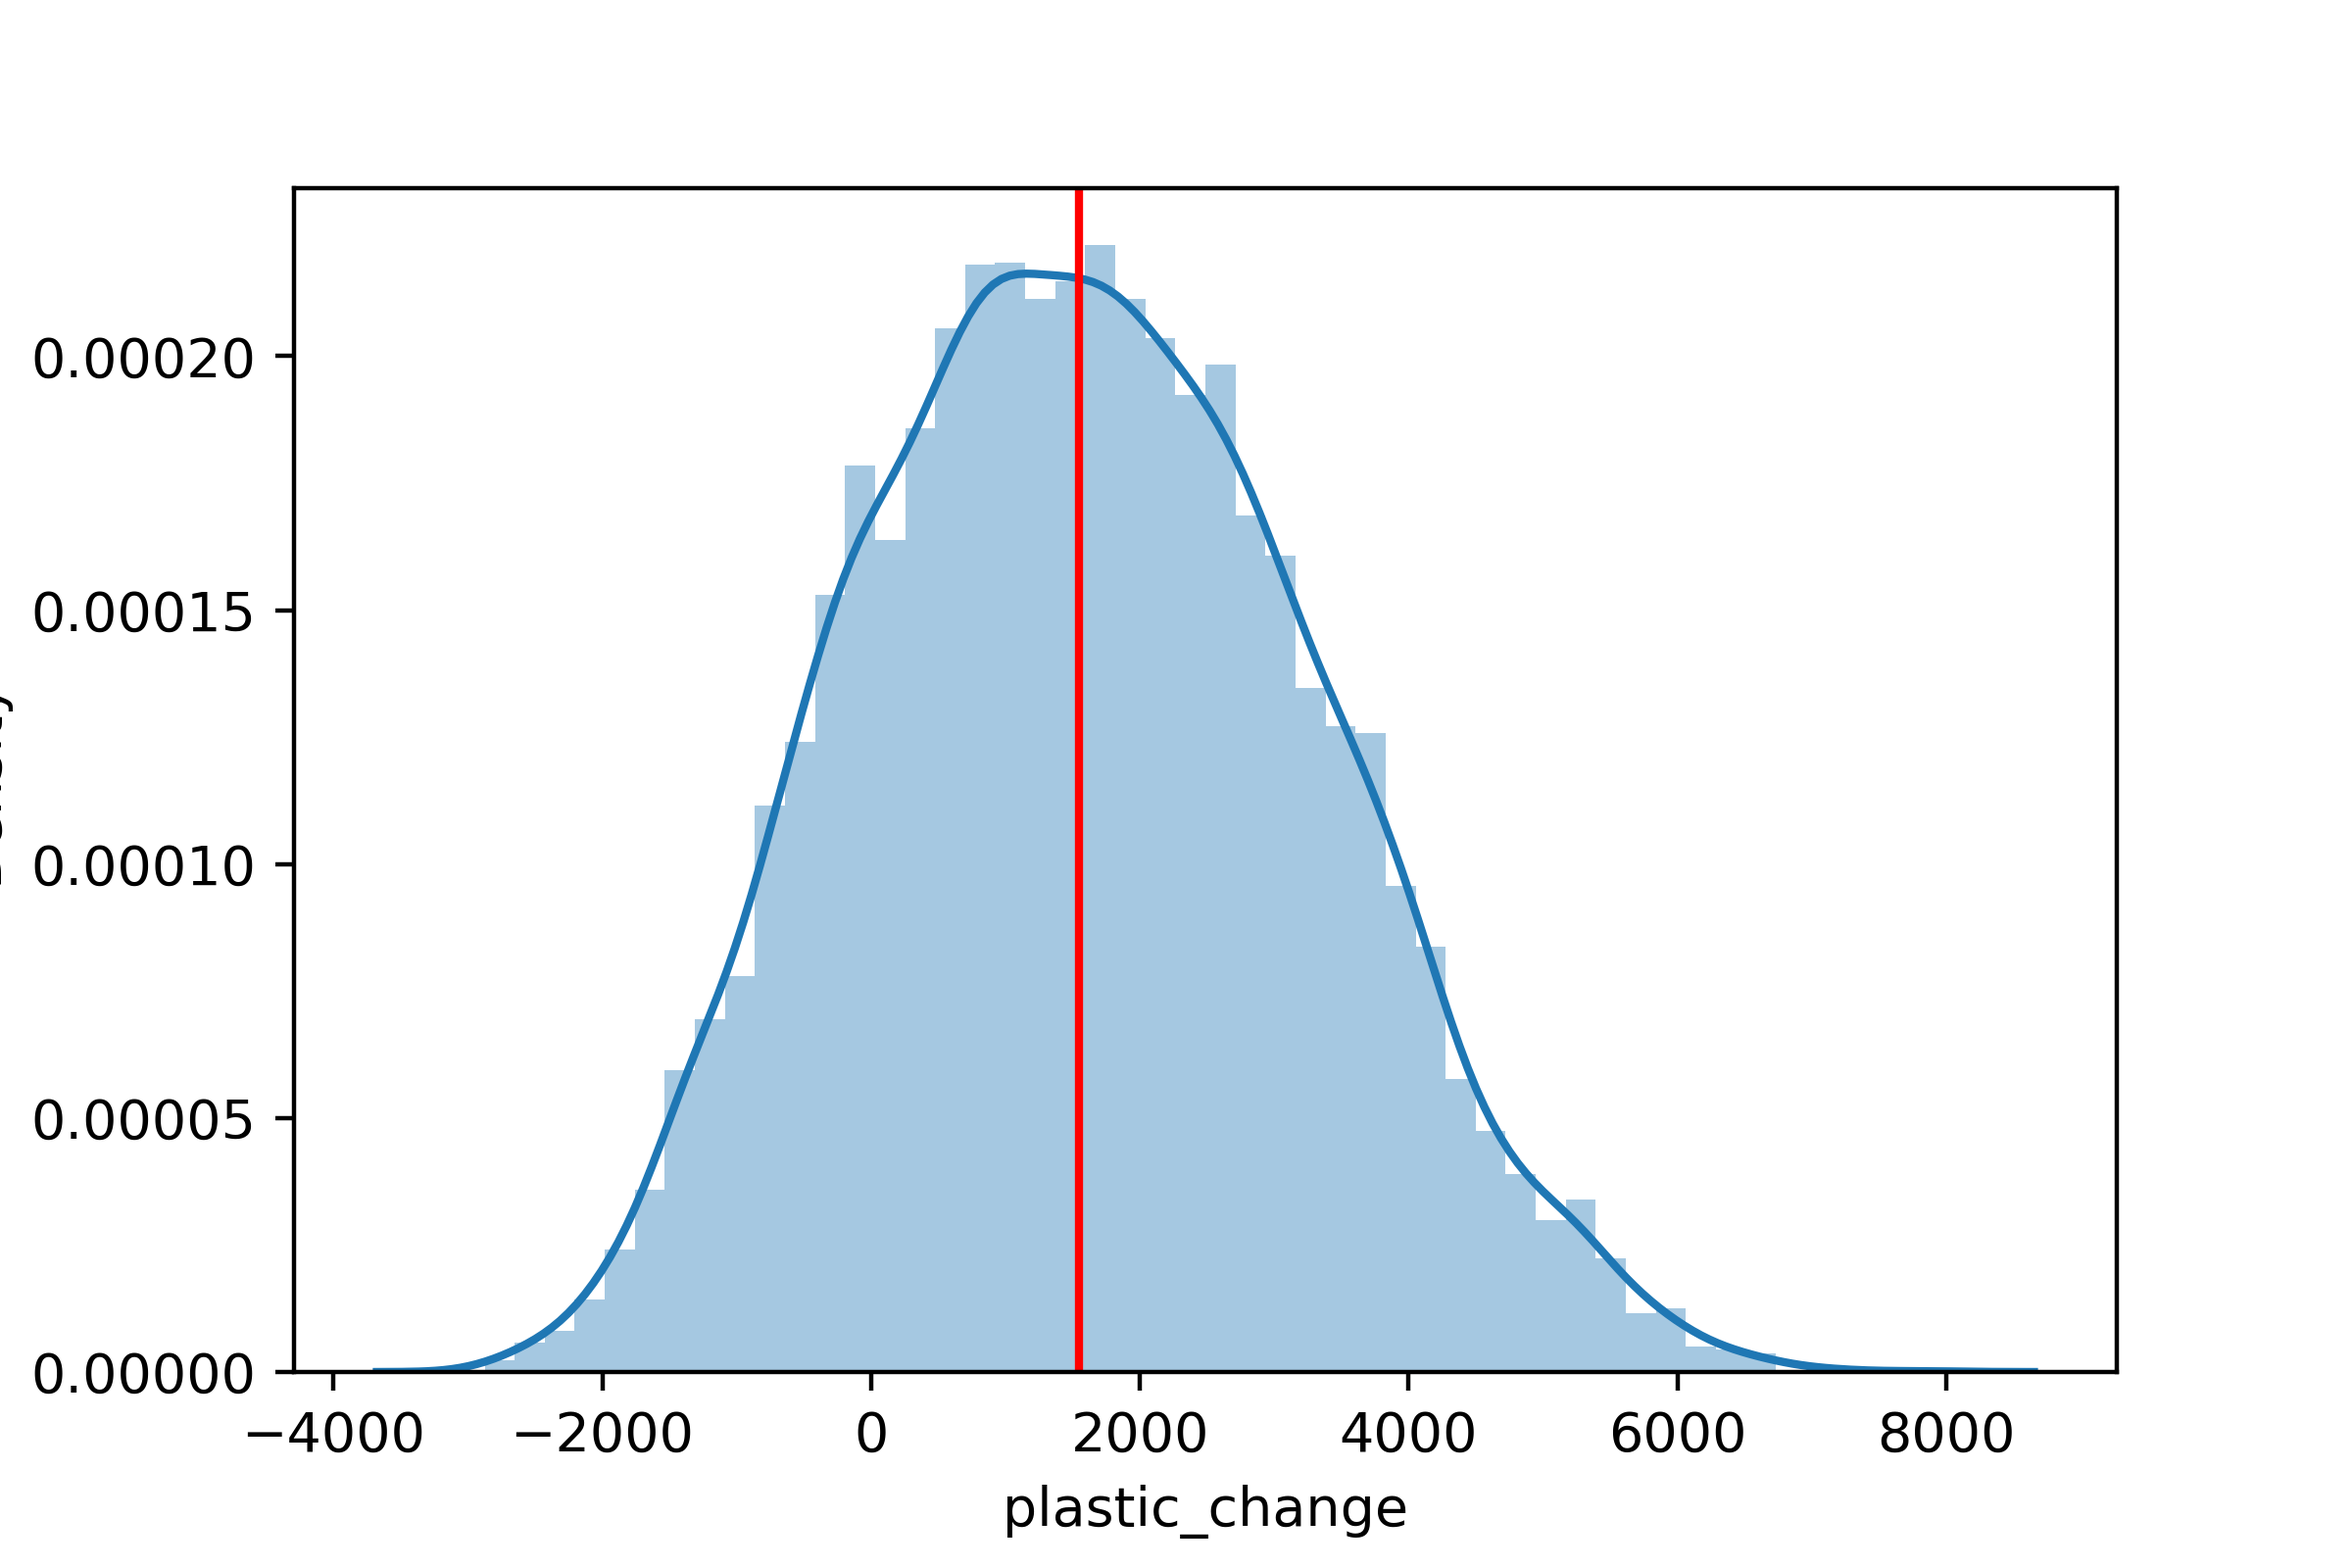
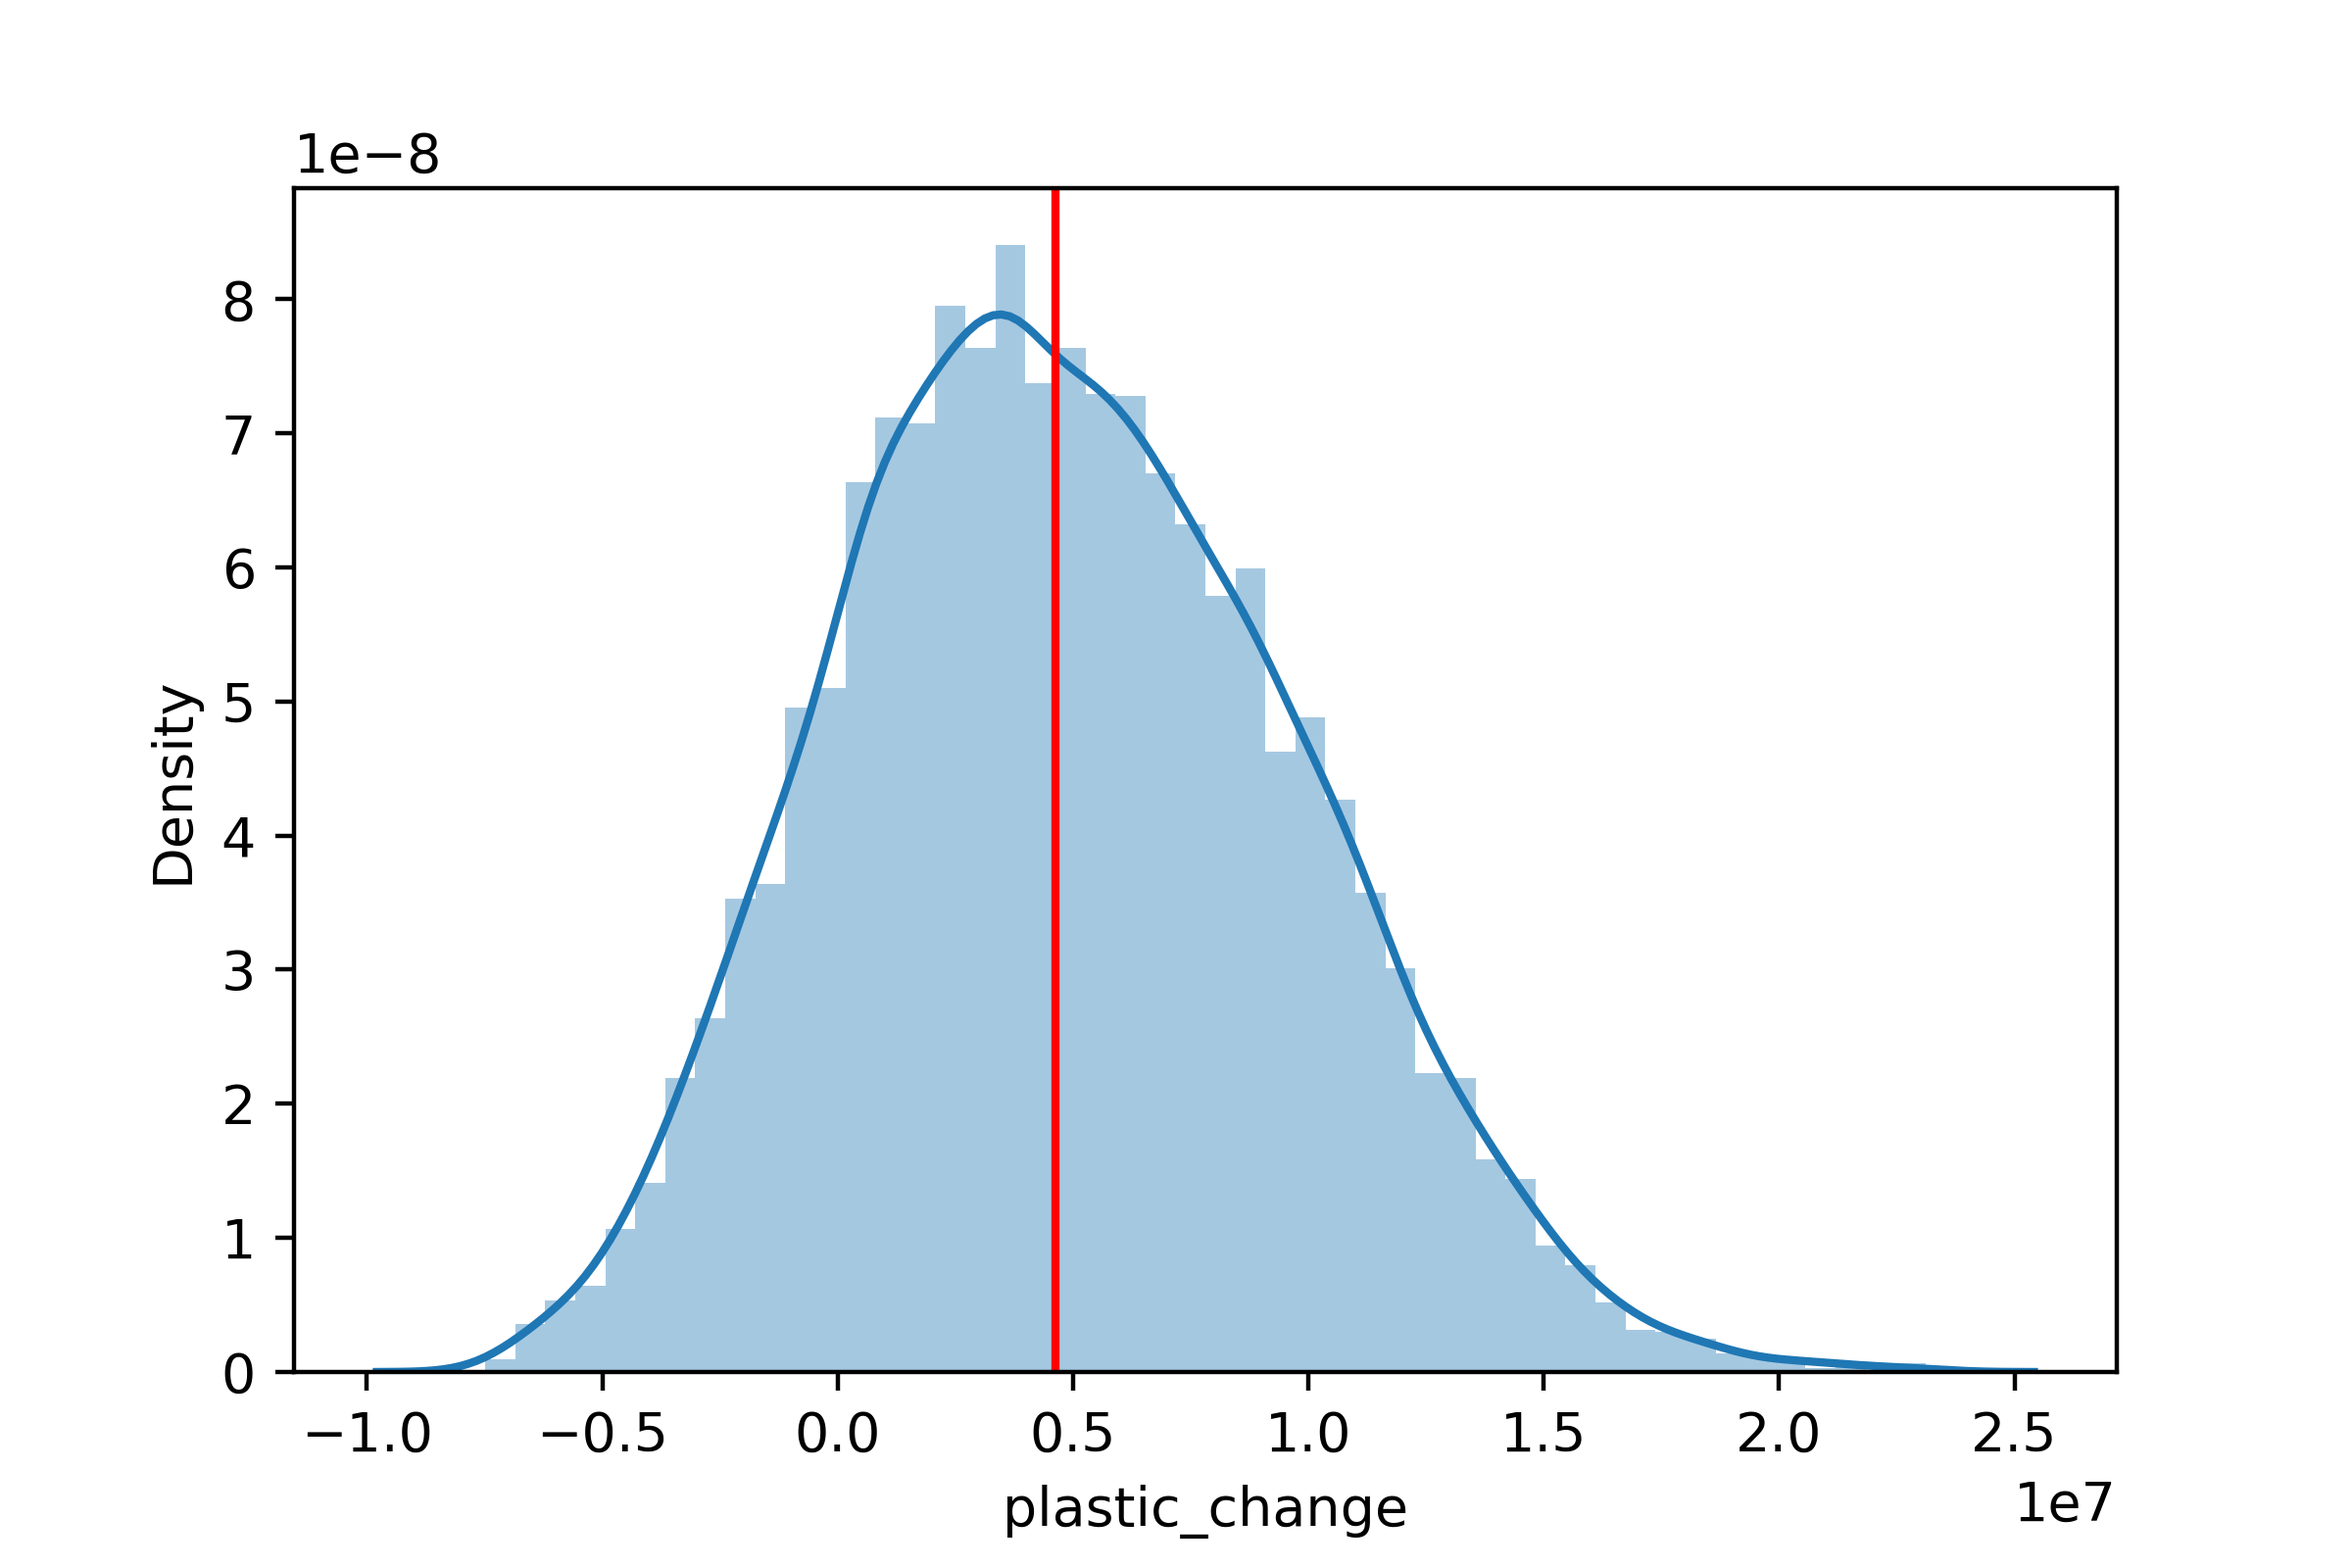
Add 3c model plots

diff --git a/threecountry_simulations.py b/threecountry_simulations.py
@@ -90,7 +90,11 @@ pd.DataFrame(
         & (trade_flows_country["income_id"].isin(["LMC", "LIC"])),
     ]
     .groupby(["Year"])
-    .agg(sum_qty_thousands=pd.NamedAgg(column="qty_thousands", aggfunc=sum))
+    .agg(
+        sum_qty_in_thousands=pd.NamedAgg(
+            column="qty_in_thousands", aggfunc=sum
+        )
+    )
 )
 # Three-country model
 ## 14 unknowns: P_LIC, P1_LIC, P_MIC, P1_MIC, P_HIC, P1_HIC, P_DOM, P1_DOM, Q_LIC, Q1_LIC, Q_MIC, Q1_MIC, Q_HIC, Q1_HIC
@@ -99,7 +103,7 @@ pd.DataFrame(
 # Stuff below needs to change to include all countries
 Q_US = trade_flows_total.loc[
     (trade_flows_total["product"] == "plastic bag"),
-    "qty_thousands",
+    "qty_in_thousands",
 ].to_list()
 
 Q_IN = pd.DataFrame(
@@ -108,8 +112,12 @@ Q_IN = pd.DataFrame(
         & (trade_flows_country["income_id"].isin(["LMC", "LIC"])),
     ]
     .groupby(["Year"])
-    .agg(sum_qty_thousands=pd.NamedAgg(column="qty_thousands", aggfunc=sum))
-)["sum_qty_thousands"].tolist()
+    .agg(
+        sum_qty_in_thousands=pd.NamedAgg(
+            column="qty_in_thousands", aggfunc=sum
+        )
+    )
+)["sum_qty_in_thousands"].tolist()
 
 Q_PAP_IN = pd.DataFrame(
     trade_flows_country.loc[
@@ -117,8 +125,12 @@ Q_PAP_IN = pd.DataFrame(
         & (trade_flows_country["income_id"].isin(["LMC", "LIC"])),
     ]
     .groupby(["Year"])
-    .agg(sum_qty_thousands=pd.NamedAgg(column="qty_thousands", aggfunc=sum))
-)["sum_qty_thousands"].tolist()
+    .agg(
+        sum_qty_in_thousands=pd.NamedAgg(
+            column="qty_in_thousands", aggfunc=sum
+        )
+    )
+)["sum_qty_in_thousands"].tolist()
 
 Q_TEX_IN = pd.DataFrame(
     trade_flows_country.loc[
@@ -126,8 +138,12 @@ Q_TEX_IN = pd.DataFrame(
         & (trade_flows_country["income_id"].isin(["LMC", "LIC"])),
     ]
     .groupby(["Year"])
-    .agg(sum_qty_thousands=pd.NamedAgg(column="qty_thousands", aggfunc=sum))
-)["sum_qty_thousands"].tolist()
+    .agg(
+        sum_qty_in_thousands=pd.NamedAgg(
+            column="qty_in_thousands", aggfunc=sum
+        )
+    )
+)["sum_qty_in_thousands"].tolist()
 
 Q_CN = pd.DataFrame(
     trade_flows_country.loc[
@@ -135,8 +151,12 @@ Q_CN = pd.DataFrame(
         & (trade_flows_country["income_id"] == "UMC"),
     ]
     .groupby(["Year"])
-    .agg(sum_qty_thousands=pd.NamedAgg(column="qty_thousands", aggfunc=sum))
-)["sum_qty_thousands"].tolist()
+    .agg(
+        sum_qty_in_thousands=pd.NamedAgg(
+            column="qty_in_thousands", aggfunc=sum
+        )
+    )
+)["sum_qty_in_thousands"].tolist()
 
 Q_PAP_CN = pd.DataFrame(
     trade_flows_country.loc[
@@ -144,8 +164,12 @@ Q_PAP_CN = pd.DataFrame(
         & (trade_flows_country["income_id"] == "UMC"),
     ]
     .groupby(["Year"])
-    .agg(sum_qty_thousands=pd.NamedAgg(column="qty_thousands", aggfunc=sum))
-)["sum_qty_thousands"].tolist()
+    .agg(
+        sum_qty_in_thousands=pd.NamedAgg(
+            column="qty_in_thousands", aggfunc=sum
+        )
+    )
+)["sum_qty_in_thousands"].tolist()
 
 Q_TEX_CN = pd.DataFrame(
     trade_flows_country.loc[
@@ -153,8 +177,12 @@ Q_TEX_CN = pd.DataFrame(
         & (trade_flows_country["income_id"] == "UMC"),
     ]
     .groupby(["Year"])
-    .agg(sum_qty_thousands=pd.NamedAgg(column="qty_thousands", aggfunc=sum))
-)["sum_qty_thousands"].tolist()
+    .agg(
+        sum_qty_in_thousands=pd.NamedAgg(
+            column="qty_in_thousands", aggfunc=sum
+        )
+    )
+)["sum_qty_in_thousands"].tolist()
 
 Q_DE = pd.DataFrame(
     trade_flows_country.loc[
@@ -162,8 +190,12 @@ Q_DE = pd.DataFrame(
         & (trade_flows_country["income_id"] == "HIC"),
     ]
     .groupby(["Year"])
-    .agg(sum_qty_thousands=pd.NamedAgg(column="qty_thousands", aggfunc=sum))
-)["sum_qty_thousands"].tolist()
+    .agg(
+        sum_qty_in_thousands=pd.NamedAgg(
+            column="qty_in_thousands", aggfunc=sum
+        )
+    )
+)["sum_qty_in_thousands"].tolist()
 
 Q_PAP_DE = pd.DataFrame(
     trade_flows_country.loc[
@@ -171,8 +203,12 @@ Q_PAP_DE = pd.DataFrame(
         & (trade_flows_country["income_id"] == "HIC"),
     ]
     .groupby(["Year"])
-    .agg(sum_qty_thousands=pd.NamedAgg(column="qty_thousands", aggfunc=sum))
-)["sum_qty_thousands"].tolist()
+    .agg(
+        sum_qty_in_thousands=pd.NamedAgg(
+            column="qty_in_thousands", aggfunc=sum
+        )
+    )
+)["sum_qty_in_thousands"].tolist()
 
 Q_TEX_DE = pd.DataFrame(
     trade_flows_country.loc[
@@ -180,8 +216,12 @@ Q_TEX_DE = pd.DataFrame(
         & (trade_flows_country["income_id"] == "HIC"),
     ]
     .groupby(["Year"])
-    .agg(sum_qty_thousands=pd.NamedAgg(column="qty_thousands", aggfunc=sum))
-)["sum_qty_thousands"].tolist()
+    .agg(
+        sum_qty_in_thousands=pd.NamedAgg(
+            column="qty_in_thousands", aggfunc=sum
+        )
+    )
+)["sum_qty_in_thousands"].tolist()
 
 ## Solution: Three country
 def simulation_threecountry(
@@ -415,4 +455,169 @@ print((results["plastic_change"] > 0).mean())
 sns.distplot(results["plastic_change"])
 plt.axvline(results["plastic_change"].median(), 0, 2, color="red")
 plt.savefig("figs/simulations/plastic_increase_amount_3c.png", dpi=400)
+plt.clf()
+
+# Change in non-plastic quantity
+print(results["non_plastic_change"].median())
+print(results["non_plastic_change"].median() / results["Q1_US"].mean())
+print((results["non_plastic_change"] > 0).mean())
+
+sns.distplot(results["non_plastic_change"])
+plt.axvline(results["non_plastic_change"].median(), 0, 10, color="red")
+plt.savefig("figs/simulations/non_plastic_increase_amount_3c.png", dpi=400)
+plt.clf()
+
+# Change in plastic bag price
+print(results["P_DOM"].median())
+print(results["P_US"].median())
+
+# Change in non-plastic bag price
+print(results["P1_DOM"].median())
+print(results["P1_US"].median())
+
+## Change in plastic quantity: LIC
+results["plastic_change_LIC"] = results["Q_LIC"] - results["Q_IN"]
+print(results["plastic_change_LIC"].median())
+print(results["plastic_change_LIC"].median() / results["Q_IN"].mean())
+print((results["plastic_change_LIC"] > 0).mean())
+
+sns.distplot(results["plastic_change_LIC"])
+plt.axvline(results["plastic_change_LIC"].median(), 0, 2, color="red")
+plt.savefig("figs/simulations/plastic_increase_amount_LIC.png", dpi=400)
+plt.clf()
+
+results["P_change_LIC"] = results["P_LIC"] - results["P_US"]
+print(results["P_change_LIC"].median())
+print(results["P_change_LIC"].median() / results["P_US"].mean())
+print((results["P_change_LIC"] > 0).mean())
+
+sns.distplot(results["P_change_LIC"])
+plt.axvline(results["P_change_LIC"].median(), 0, 2, color="red")
+plt.xlabel("Price change (LIC)")
+plt.savefig("figs/simulations/P_increase_amount_LIC.png", dpi=400)
+plt.clf()
+
+## Change in plastic quantity: MIC
+results["plastic_change_MIC"] = results["Q_MIC"] - results["Q_CN"]
+print(results["plastic_change_MIC"].median())
+print(results["plastic_change_MIC"].median() / results["Q_IN"].mean())
+print((results["plastic_change_MIC"] > 0).mean())
+
+sns.distplot(results["plastic_change_MIC"])
+plt.axvline(results["plastic_change_MIC"].median(), 0, 2, color="red")
+plt.savefig("figs/simulations/plastic_increase_amount_MIC.png", dpi=400)
+plt.clf()
+
+results["P_change_MIC"] = results["P_MIC"] - results["P_US"]
+print(results["P_change_MIC"].median())
+print(results["P_change_MIC"].median() / results["P_US"].mean())
+print((results["P_change_MIC"] > 0).mean())
+
+sns.distplot(results["P_change_MIC"])
+plt.axvline(results["P_change_MIC"].median(), 0, 2, color="red")
+plt.xlabel("Price change (MIC)")
+plt.savefig("figs/simulations/P_increase_amount_MIC.png", dpi=400)
+plt.clf()
+
+## Change in plastic quantity: HIC
+results["plastic_change_HIC"] = results["Q_HIC"] - results["Q_DE"]
+print(results["plastic_change_HIC"].median())
+print(results["plastic_change_HIC"].median() / results["Q_IN"].mean())
+print((results["plastic_change_HIC"] > 0).mean())
+
+sns.distplot(results["plastic_change_HIC"])
+plt.axvline(results["plastic_change_HIC"].median(), 0, 2, color="red")
+plt.savefig("figs/simulations/plastic_increase_amount_HIC.png", dpi=400)
+plt.clf()
+
+results["P_change_HIC"] = results["P_HIC"] - results["P_US"]
+print(results["P_change_HIC"].median())
+print(results["P_change_HIC"].median() / results["P_US"].mean())
+print((results["P_change_HIC"] > 0).mean())
+
+sns.distplot(results["P_change_HIC"])
+plt.axvline(results["P_change_HIC"].median(), 0, 2, color="red")
+plt.xlabel("Price change (HIC)")
+plt.savefig("figs/simulations/P_increase_amount_HIC.png", dpi=400)
+plt.clf()
+
+## Change in non-plastic quantity: LIC
+results["non_plastic_change_LIC"] = (
+    results["Q1_LIC"] - results["Q_PAP_IN"] - results["Q_TEX_IN"]
+)
+print(results["non_plastic_change_LIC"].median())
+print(
+    results["non_plastic_change_LIC"].median()
+    / (results["Q_PAP_IN"].mean() + results["Q_TEX_IN"].mean())
+)
+print((results["non_plastic_change_LIC"] > 0).mean())
+
+sns.distplot(results["non_plastic_change_LIC"])
+plt.axvline(results["non_plastic_change_LIC"].median(), 0, 2, color="red")
+plt.savefig("figs/simulations/non_plastic_increase_amount_LIC.png", dpi=400)
+plt.clf()
+
+results["P1_change_LIC"] = results["P1_LIC"] - results["P1_US"]
+print(results["P1_change_LIC"].median())
+print(results["P1_change_LIC"].median() / results["P_US"].mean())
+print((results["P1_change_LIC"] > 0).mean())
+
+sns.distplot(results["P1_change_LIC"])
+plt.axvline(results["P1_change_LIC"].median(), 0, 2, color="red")
+plt.xlabel("Price change (LIC)")
+plt.savefig("figs/simulations/P1_increase_amount_LIC.png", dpi=400)
+plt.clf()
+
+## Change in non-plastic quantity: MIC
+results["non_plastic_change_MIC"] = (
+    results["Q1_MIC"] - results["Q_PAP_CN"] - results["Q_TEX_CN"]
+)
+print(results["non_plastic_change_MIC"].median())
+print(
+    results["non_plastic_change_MIC"].median()
+    / (results["Q_PAP_CN"].mean() + results["Q_TEX_CN"].mean())
+)
+print((results["non_plastic_change_MIC"] > 0).mean())
+
+sns.distplot(results["non_plastic_change_MIC"])
+plt.axvline(results["non_plastic_change_MIC"].median(), 0, 2, color="red")
+plt.savefig("figs/simulations/non_plastic_increase_amount_MIC.png", dpi=400)
+plt.clf()
+
+results["P1_change_MIC"] = results["P1_MIC"] - results["P1_US"]
+print(results["P1_change_MIC"].median())
+print(results["P1_change_MIC"].median() / results["P_US"].mean())
+print((results["P1_change_MIC"] > 0).mean())
+
+sns.distplot(results["P1_change_MIC"])
+plt.axvline(results["P1_change_MIC"].median(), 0, 2, color="red")
+plt.xlabel("Price change (MIC)")
+plt.savefig("figs/simulations/P1_increase_amount_MIC.png", dpi=400)
+plt.clf()
+
+## Change in non-plastic quantity: HIC
+results["non_plastic_change_HIC"] = (
+    results["Q1_HIC"] - results["Q_PAP_DE"] - results["Q_TEX_DE"]
+)
+print(results["non_plastic_change_HIC"].median())
+print(
+    results["non_plastic_change_HIC"].median()
+    / (results["Q_PAP_DE"].mean() + results["Q_TEX_DE"].mean())
+)
+print((results["non_plastic_change_HIC"] > 0).mean())
+
+sns.distplot(results["non_plastic_change_HIC"])
+plt.axvline(results["non_plastic_change_HIC"].median(), 0, 2, color="red")
+plt.savefig("figs/simulations/non_plastic_increase_amount_HIC.png", dpi=400)
+plt.clf()
+
+results["P1_change_HIC"] = results["P1_HIC"] - results["P1_US"]
+print(results["P1_change_HIC"].median())
+print(results["P1_change_HIC"].median() / results["P_US"].mean())
+print((results["P1_change_HIC"] > 0).mean())
+
+sns.distplot(results["P1_change_HIC"])
+plt.axvline(results["P1_change_HIC"].median(), 0, 2, color="red")
+plt.xlabel("Price change (HIC)")
+plt.savefig("figs/simulations/P1_increase_amount_HIC.png", dpi=400)
 plt.clf()
